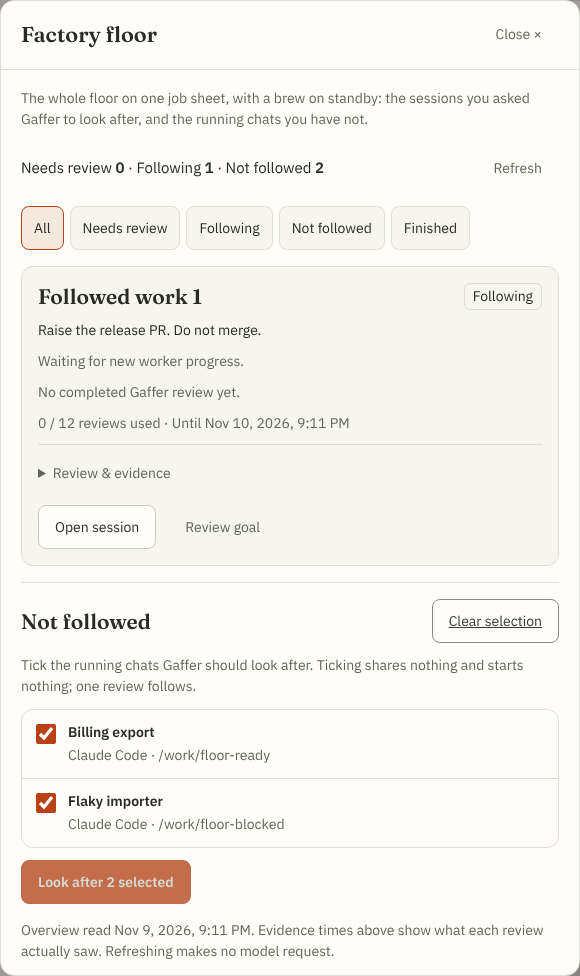
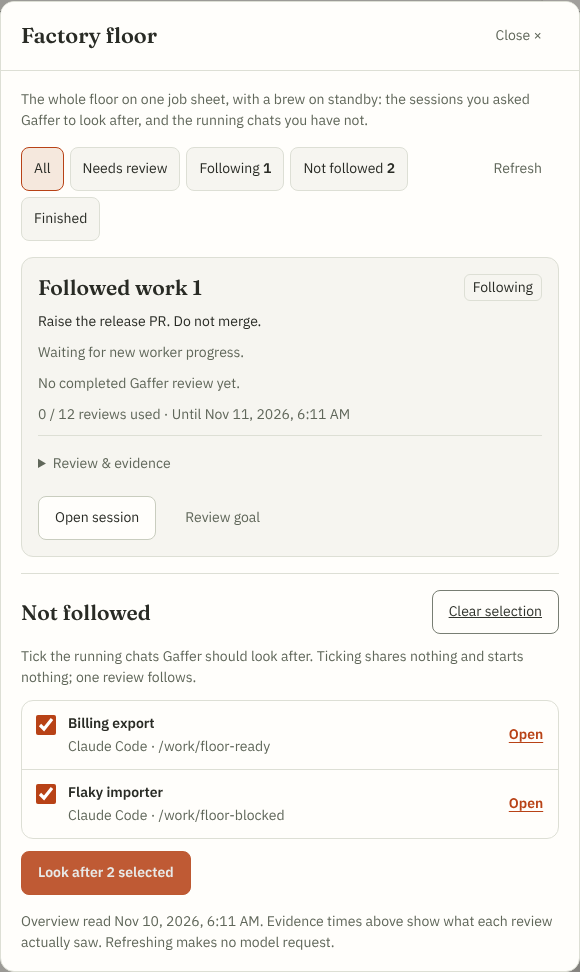
Put the factory floor one click from Gaffer and Home, and fold the session picker into it
General chat's header link and an empty chat's button open the floor, Home
names running chats that are not followed, the filters carry the counts, and
each not-followed row has Open in place of the separate session picker.

Claude-Session: https://claude.ai/code/session_011MNNzptsv6jTWLPjXiBdGs

diff --git a/web/src/lib/GafferFollowedSessions.svelte b/web/src/lib/GafferFollowedSessions.svelte
@@ -4,7 +4,7 @@
   import WorkspaceDialog from './terminal/WorkspaceDialog.svelte'
   import GafferGoal from './GafferGoal.svelte'
   import GafferFloorReview from './GafferFloorReview.svelte'
-  import { terminalSessions, type TerminalSession } from './terminal/api'
+  import { sessionHref, terminalSessions, type TerminalSession } from './terminal/api'
   import { floorCandidates, floorChosen, floorRoom } from './gafferFloor'
   import { toolName } from './agentLaunch'
   import GafferProse from './GafferProse.svelte'
@@ -63,16 +63,22 @@
   function tick_(id:string,on:boolean){const next=new Set(ticked);if(on)next.add(id);else next.delete(id);ticked=next}
   function tickAll(){ticked=chosen.length===candidates.length?new Set():new Set(candidates.map(item=>item.id))}
   async function closeReview(){reviewing=false;await load(true);await tick();(lookAfterButton?.isConnected?lookAfterButton:refreshButton)?.focus({preventScroll:true})}
+  // Opening a running chat from the floor shows it with its own Gaffer conversation. It enables and sends nothing.
+  function openCandidate(event:MouseEvent,item:TerminalSession) {
+    if(event.button!==0||event.ctrlKey||event.metaKey||event.shiftKey||event.altKey)return
+    const request=new CustomEvent('reet:show-session',{detail:item.id,cancelable:true})
+    if(!window.dispatchEvent(request)){event.preventDefault();onselect()}
+    else onclose()
+  }
   async function closeGoal(){managing=null;await load(true);await tick();(returnFocus?.isConnected?returnFocus:refreshButton)?.focus({preventScroll:true})}
 </script>
 
 <WorkspaceDialog title="Factory floor" {onclose}>
   <div class="overview">
     <p class="intro">The whole floor on one job sheet, with a brew on standby: the sessions you asked Gaffer to look after, and the running chats you have not.</p>
-    <div class="toolbar"><p class="counts">Needs review <strong>{needsYou}</strong> <span aria-hidden="true">·</span> Following <strong>{following}</strong> <span aria-hidden="true">·</span> Not followed <strong>{candidates.length}</strong></p><button class="btn quiet" bind:this={refreshButton} disabled={reading} onclick={()=>void load()}>Refresh</button></div>
-    <nav class="filters" aria-label="Filter the floor">
-      {#each [['all','All'],['attention','Needs review'],['active','Following'],['idle','Not followed'],['finished','Finished']] as [value,name]}<button class="filter" type="button" aria-pressed={filter===value} onclick={()=>filter=value}>{name}</button>{/each}
-    </nav>
+    <div class="toolbar"><nav class="filters" aria-label="Filter the floor">
+      {#each [['all','All',-1],['attention','Needs review',needsYou],['active','Following',following],['idle','Not followed',candidates.length],['finished','Finished',-1]] as [value,name,count] (value)}<button class="filter" type="button" aria-pressed={filter===value} onclick={()=>filter=String(value)}>{name}{#if Number(count)>0}{' '}<strong>{count}</strong>{/if}</button>{/each}
+    </nav><button class="btn quiet" bind:this={refreshButton} disabled={reading} onclick={()=>void load()}>Refresh</button></div>
     {#if error}<p role="alert" class="warning">{error}</p>{#if view}<p class="muted">Showing the last successful read. Refresh to check for changes.</p>{/if}{/if}
     {#if loading}<p role="status">Reading the job sheet…</p>
     {:else if !rows.length&&!candidates.length&&!error}<div class="empty"><h3>Nowt on the job sheet yet.</h3><p>Start an agent in Chat and it appears here, ready to be looked after. Opening this view starts no follow-up.</p>{#if sessionsError}<p class="warning">{sessionsError}</p>{/if}</div>
@@ -108,7 +114,7 @@
       {#if candidates.length}
         <p class="muted">Tick the running chats Gaffer should look after. Ticking shares nothing and starts nothing; one review follows.</p>
         <div class="picks" role="group" aria-label="Running chats not followed">
-          {#each candidates as item (item.id)}<label class="pick"><input type="checkbox" checked={ticked.has(item.id)} onchange={event=>tick_(item.id,event.currentTarget.checked)}/><span class="pick-text"><strong>{item.title}</strong><span>{toolName(item.tool??'')||'Agent'} · {item.dir||'Directory not reported'}</span></span></label>{/each}
+          {#each candidates as item (item.id)}<div class="pick-row"><label class="pick"><input type="checkbox" checked={ticked.has(item.id)} onchange={event=>tick_(item.id,event.currentTarget.checked)}/><span class="pick-text"><strong>{item.title}</strong><span>{toolName(item.tool??'')||'Agent'} · {item.dir||'Directory not reported'}</span></span></label><a class="pick-open" href={`${sessionHref(item)}&gaffer=1`} aria-label={`Open ${item.title}`} onclick={event=>openCandidate(event,item)}>Open</a></div>{/each}
         </div>
         {#if chosen.length>room}<p class="warning" role="status">{room?`Gaffer has room for ${room} more active ${room===1?'goal':'goals'}. Untick ${chosen.length-room}.`:'Gaffer is already following ten sessions. Pause or stop one first.'}</p>{/if}
         <div class="actions"><button class="btn primary" type="button" bind:this={lookAfterButton} disabled={!chosen.length||chosen.length>room} onclick={()=>reviewing=true}>{chosen.length?`Look after ${chosen.length} selected`:'Look after selected'}</button></div>
@@ -121,5 +127,5 @@
 {#if managing}<WorkspaceDialog title="Look after this session" onclose={()=>void closeGoal()}><GafferGoal id={managing.goal.conversationId} {userId} {timeZone} {dateFormat} onchanged={async()=>{await load(true);await onchanged()}}/></WorkspaceDialog>{/if}
 
 <style>
-  .overview{display:grid;gap:16px;min-width:0;font-size:14px;line-height:1.5}p{margin:0;overflow-wrap:anywhere}.intro,.muted,.evidence{color:var(--muted)}.toolbar,.card-head,.actions{display:flex;align-items:center;justify-content:space-between;gap:12px}.counts{font-size:15px;font-variant-numeric:tabular-nums}.counts strong{color:var(--ink)}.filters{display:flex;gap:6px;flex-wrap:wrap}.filter{font:inherit;color:var(--ink);border:1px solid var(--line);background:var(--bg);border-radius:8px;padding:7px 12px;min-height:44px;cursor:pointer}.filter[aria-pressed=true]{background:var(--tint);border-color:var(--accent)}.goals{list-style:none;padding:0;margin:0;display:grid;gap:16px}.goals>li{display:grid;gap:10px;min-width:0;padding:16px;border:1px solid var(--line);border-radius:12px;background:var(--bg)}.goals>li.attention{border-color:var(--accent)}h3{font:600 21px var(--serif);margin:0;overflow-wrap:anywhere;min-width:0}h4{font-size:14px;margin:0}.card-head{align-items:flex-start;flex-wrap:wrap}.state{font-size:0.875rem;border:1px solid var(--line);border-radius:6px;padding:2px 8px;white-space:nowrap}.attention .state{color:var(--accent)}.goal-text,.instruction{white-space:pre-wrap;overflow-wrap:anywhere}.review{border-left:2px solid var(--line-strong);padding-left:12px}.eyebrow{font-size:0.875rem;color:var(--muted);margin-bottom:4px}.report{white-space:pre-wrap}.evidence{font-size:0.875rem;font-variant-numeric:tabular-nums}.warning{color:var(--bad)}.delivery{font-weight:600}details{border-top:1px solid var(--line);padding-top:6px}summary{min-height:44px;display:list-item;align-content:center;cursor:pointer;color:var(--muted)}.detail-body{display:grid;gap:10px;padding:8px 0}.actions{justify-content:flex-start;flex-wrap:wrap}.actions a{text-decoration:none;box-sizing:border-box}.btn{min-height:44px}button:focus-visible,a:focus-visible,summary:focus-visible{outline:2px solid var(--accent);outline-offset:3px}.idle{display:grid;gap:12px;min-width:0;border-top:1px solid var(--line);padding-top:16px}.idle-head{display:flex;align-items:center;justify-content:space-between;gap:12px;flex-wrap:wrap}.picks{display:grid;border:1px solid var(--line);border-radius:12px}.pick{display:flex;align-items:flex-start;gap:12px;min-height:44px;padding:12px 14px;cursor:pointer;min-width:0}.pick+.pick{border-top:1px solid var(--line)}.pick input{width:20px;height:20px;margin:2px 0 0;flex:none;accent-color:var(--accent)}.pick-text{display:grid;gap:2px;min-width:0;overflow-wrap:anywhere}.pick-text span{font-size:0.875rem;color:var(--muted)}.pick:has(input:focus-visible){outline:2px solid var(--accent);outline-offset:-2px;border-radius:12px}.empty{padding:16px 0}.empty p{margin-top:10px;color:var(--muted)}@media(max-width:559px){.goals>li{padding:12px}.toolbar{gap:8px}.filter{padding:7px 10px}}
+  .overview{display:grid;gap:16px;min-width:0;font-size:14px;line-height:1.5}p{margin:0;overflow-wrap:anywhere}.intro,.muted,.evidence{color:var(--muted)}.toolbar,.card-head,.actions{display:flex;align-items:center;justify-content:space-between;gap:12px}.toolbar{align-items:flex-start}.filter strong{font-variant-numeric:tabular-nums}.filters{display:flex;gap:6px;flex-wrap:wrap}.filter{font:inherit;color:var(--ink);border:1px solid var(--line);background:var(--bg);border-radius:8px;padding:7px 12px;min-height:44px;cursor:pointer}.filter[aria-pressed=true]{background:var(--tint);border-color:var(--accent)}.goals{list-style:none;padding:0;margin:0;display:grid;gap:16px}.goals>li{display:grid;gap:10px;min-width:0;padding:16px;border:1px solid var(--line);border-radius:12px;background:var(--bg)}.goals>li.attention{border-color:var(--accent)}h3{font:600 21px var(--serif);margin:0;overflow-wrap:anywhere;min-width:0}h4{font-size:14px;margin:0}.card-head{align-items:flex-start;flex-wrap:wrap}.state{font-size:0.875rem;border:1px solid var(--line);border-radius:6px;padding:2px 8px;white-space:nowrap}.attention .state{color:var(--accent)}.goal-text,.instruction{white-space:pre-wrap;overflow-wrap:anywhere}.review{border-left:2px solid var(--line-strong);padding-left:12px}.eyebrow{font-size:0.875rem;color:var(--muted);margin-bottom:4px}.report{white-space:pre-wrap}.evidence{font-size:0.875rem;font-variant-numeric:tabular-nums}.warning{color:var(--bad)}.delivery{font-weight:600}details{border-top:1px solid var(--line);padding-top:6px}summary{min-height:44px;display:list-item;align-content:center;cursor:pointer;color:var(--muted)}.detail-body{display:grid;gap:10px;padding:8px 0}.actions{justify-content:flex-start;flex-wrap:wrap}.actions a{text-decoration:none;box-sizing:border-box}.btn{min-height:44px}button:focus-visible,a:focus-visible,summary:focus-visible{outline:2px solid var(--accent);outline-offset:3px}.idle{display:grid;gap:12px;min-width:0;border-top:1px solid var(--line);padding-top:16px}.idle-head{display:flex;align-items:center;justify-content:space-between;gap:12px;flex-wrap:wrap}.picks{display:grid;border:1px solid var(--line);border-radius:12px}.pick{display:flex;align-items:flex-start;gap:12px;min-height:44px;padding:12px 14px;cursor:pointer;min-width:0}.pick{flex:1 1 auto}.pick-row{display:flex;align-items:center;gap:8px;min-width:0;padding-right:10px}.pick-row+.pick-row{border-top:1px solid var(--line)}.pick-open{flex:none;min-height:44px;min-width:44px;display:inline-flex;align-items:center;justify-content:center;color:var(--accent-text);font-weight:600;text-underline-offset:3px}.pick input{width:20px;height:20px;margin:2px 0 0;flex:none;accent-color:var(--accent)}.pick-text{display:grid;gap:2px;min-width:0;overflow-wrap:anywhere}.pick-text span{font-size:0.875rem;color:var(--muted)}.pick:has(input:focus-visible){outline:2px solid var(--accent);outline-offset:-2px;border-radius:12px}.empty{padding:16px 0}.empty p{margin-top:10px;color:var(--muted)}@media(max-width:559px){.goals>li{padding:12px}.toolbar{gap:8px}.filter{padding:7px 10px}}
 </style>

diff --git a/web/src/lib/GafferChatWidget.svelte b/web/src/lib/GafferChatWidget.svelte
@@ -14,7 +14,6 @@
  import GafferGoal from './GafferGoal.svelte'
  import { goalPrefill } from './sessions/goalPrefill'
  import { copyText } from './clipboard'
-  import GafferSessionPicker from './GafferSessionPicker.svelte'
   import GafferFollowedSessions from './GafferFollowedSessions.svelte'
   import ContextSharing from './ContextSharing.svelte'
   import WorkspaceDialog from './terminal/WorkspaceDialog.svelte'
@@ -29,7 +28,6 @@
   const composeHelpId = `${contextDescriptionId}-keys`
   let historyOpen = $state(false), optionsOpen = $state(false), workerOpen = $state(false), goalOpen=$state(false), relay = $state(false)
   let followedOpen = $state(false)
-  let sessionPickerOpen = $state(false)
   let modelButton = $state<HTMLButtonElement>(), historyButton = $state<HTMLButtonElement>(), contextButton = $state<HTMLButtonElement>(), optionsButton = $state<HTMLButtonElement>(), freshButton = $state<HTMLButtonElement>()
   let modelBefore: {providerId:string;model:string;manual:boolean} | undefined
   let contextOpen = $state(false)
@@ -91,7 +89,7 @@
     measureKeyboard();window.addEventListener('resize',scheduleKeyboard);vv?.addEventListener('resize',scheduleKeyboard);document.addEventListener('focusin',scheduleKeyboard);document.addEventListener('focusout',scheduleKeyboard)
     return () => { cancelAnimationFrame(frame);window.removeEventListener('resize',scheduleKeyboard);vv?.removeEventListener('resize',scheduleKeyboard);document.removeEventListener('focusin',scheduleKeyboard);document.removeEventListener('focusout',scheduleKeyboard);document.documentElement.removeAttribute('data-gaffer-editing');document.documentElement.removeAttribute('data-gaffer-anchor');gafferChatEntry.update(current => current === entry ? null : current); mq.removeEventListener('change', resize); dispose(); drafts = {}; pendingMemory.clear() }
   })
-  $effect(() => { const key = scope, shown = open; untrack(() => { contextOpen=false; choicesOpen=false; optionsOpen=false; workerOpen=false;goalOpen=false;followedOpen=false;sessionPickerOpen=false;relay=false; if (shown) void load(key); else dispose() }) })
+  $effect(() => { const key = scope, shown = open; untrack(() => { contextOpen=false; choicesOpen=false; optionsOpen=false; workerOpen=false;goalOpen=false;followedOpen=false;relay=false; if (shown) void load(key); else dispose() }) })
   $effect(() => {
     if (!open || !panel) return
     const mobile = modal, dialog = panel
@@ -328,7 +326,7 @@
   <dialog class="gaffer-chat" data-size={panelSize} data-side={panelSide} data-full={full||undefined} bind:this={panel} use:phoneShell={modal} use:moveGafferPanel={{reset:`${panelSize}:${panelSide}:${full}:${phone}:${layoutRevision}`,modal}} aria-labelledby="gaffer-chat-title" aria-modal={modal ? 'true' : 'false'} oncancel={event => {event.preventDefault(); void close()}} onkeydown={event => { if (event.key === 'Escape') {event.preventDefault(); event.stopPropagation(); void close()} }}>
     <header class="chat-head" data-shell-head data-gaffer-drag>
       <button class="identity" type="button" data-gaffer-move disabled={modal} aria-keyshortcuts="ArrowLeft ArrowRight ArrowUp ArrowDown" aria-label="Move Gaffer panel with arrow keys or by dragging" title={modal ? 'Gaffer moves with the screen on this size' : 'Drag to move · arrow keys nudge · double-click to snap back'}><GafferCompanionAvatar size={32} thinking={!!running}/></button>
-      <div class="heading"><h2 id="gaffer-chat-title">Gaffer</h2><p class="scope-title" class:follow-scope-label={!scope} title={`${scopeTitle} · ${brainTitle}`}>{#if scope}{scopeTitle}{:else}<span class="sr-only">General Gaffer chat · </span>Follow a session <span aria-hidden="true">⌄</span>{/if}</p>{#if !scope}<button type="button" class="follow-scope" aria-label="Follow a session" title="Choose a session for Gaffer" onclick={()=>sessionPickerOpen=true}></button>{/if}</div>
+      <div class="heading"><h2 id="gaffer-chat-title">Gaffer</h2><p class="scope-title" class:follow-scope-label={!scope} title={`${scopeTitle} · ${brainTitle}`}>{#if scope}{scopeTitle}{:else}<span class="sr-only">General Gaffer chat · </span>Factory floor <span aria-hidden="true">⌄</span>{/if}</p>{#if !scope}<button type="button" class="follow-scope" aria-label="Factory floor" aria-haspopup="dialog" title="See every running chat and choose what Gaffer looks after" onclick={()=>followedOpen=true}></button>{/if}</div>
       <div class="head-actions" role="group" aria-label="Gaffer panel tools">
         <button class="icon" type="button" bind:this={freshButton} aria-label="New conversation" title={freshTitle} aria-haspopup="dialog" disabled={!canStartFresh} onclick={startFresh}><svg aria-hidden="true" width="18" height="18" viewBox="0 0 24 24" fill="none" stroke="currentColor" stroke-width="1.7" stroke-linecap="round" stroke-linejoin="round"><path d="M12 20h9" /><path d="M16.5 3.5a2.12 2.12 0 0 1 3 3L7 19l-4 1 1-4Z" /></svg></button>
         <button class="icon" bind:this={historyButton} aria-label="Conversation history" title="Conversation history" aria-haspopup="dialog" onclick={() => historyOpen = true}><svg aria-hidden="true" width="18" height="18" viewBox="0 0 24 24" fill="none" stroke="currentColor" stroke-width="1.7" stroke-linecap="round" stroke-linejoin="round"><path d="M3 11a9 9 0 1 1 2.6 7M3 4v7h7M12 7v5l3 2" /></svg></button>
@@ -345,7 +343,7 @@
       <!-- svelte-ignore a11y_no_noninteractive_tabindex (The scrolling history must be reachable with a keyboard.) -->
       <div class="transcript" bind:this={transcript} data-shell-body onscroll={() => {if (transcript) stickToBottom = transcript.scrollHeight - transcript.scrollTop - transcript.clientHeight < 90}} tabindex="0" role="region" aria-label="Gaffer conversation messages">
         {#if loading}<p class="empty" role="status">Finding our place…</p>
-        {:else if loadedScope === scope && !error && !current?.turns.length}<div class="welcome"><GafferCompanionAvatar size={112} sitting/><div class="welcome-copy"><h3>Ey up. I’m Gaffer.</h3><p>Talk it through, question the plan, or ask for a second pair of eyes.</p><p class="note">{scope?'Choose “Look after this session” to review access and set a goal in one place.':'A brew and a second pair of eyes. Open a working session when you’d like Gaffer to look after its progress.'}</p></div></div>{/if}
+        {:else if loadedScope === scope && !error && !current?.turns.length}<div class="welcome"><GafferCompanionAvatar size={112} sitting/><div class="welcome-copy"><h3>Ey up. I’m Gaffer.</h3><p>Talk it through, question the plan, or ask for a second pair of eyes.</p><p class="note">{scope?'Choose “Look after this session” to review access and set a goal in one place.':'A brew and a second pair of eyes. The factory floor shows every running chat, and puts the ones you tick in Gaffer’s care.'}</p>{#if !scope}<button type="button" class="btn floor-entry" aria-haspopup="dialog" onclick={()=>followedOpen=true}>Open the factory floor</button>{/if}</div></div>{/if}
         {#if loadedScope === scope}{#each current?.turns ?? [] as turn (turn.id)}
           <article class="turn">
             <div class="user-message"><p class="speaker">{turn.goalId?'Goal review':'You'}</p><p class="message-text">{turn.prompt}</p></div>
@@ -424,7 +422,6 @@
   </div>
 </WorkspaceDialog>{/if}
 
-{#if sessionPickerOpen}<GafferSessionPicker onclose={()=>{sessionPickerOpen=false;void tick().then(()=>composer?.focus({preventScroll:true}))}} onselect={()=>{mode='session';sessionPickerOpen=false}} />{/if}
 {#if goalOpen&&current}<WorkspaceDialog title="Look after this session" onclose={()=>{goalOpen=false;goalDraft='';void tick().then(()=>optionsButton?.focus({preventScroll:true}))}}><GafferGoal id={current.conversation.id} {userId} {timeZone} {dateFormat} draft={goalDraft} onchanged={goalChanged}/></WorkspaceDialog>{/if}
 {#if followedOpen}<GafferFollowedSessions {userId} {timeZone} {dateFormat} onerror={message} onchanged={async()=>{if(open&&scope&&current)await goalChanged();else window.dispatchEvent(new Event(GAFFER_GOALS_CHANGED))}} onselect={()=>{mode='session';followedOpen=false;open=true}} onhistory={()=>{followedOpen=false;historyOpen=true}} onclose={()=>{followedOpen=false;void tick().then(()=>focusEntry(open ? optionsButton : undefined))}}/>{/if}
 {#if workerOpen&&current}<WorkspaceDialog title="Worker messages" onclose={()=>{workerOpen=false;void tick().then(()=>optionsButton?.focus({preventScroll:true}))}}><WorkerMessaging path={`/api/v2/gaffer/conversations/${encodeURIComponent(current.conversation.id)}/worker`} gaffer {timeZone} {dateFormat} onchanged={workerPermissionSaved} onrequest={()=>{relay=true;workerOpen=false;if(canAutoFocus())void tick().then(()=>composer?.focus({preventScroll:true}))}}/></WorkspaceDialog>{/if}
@@ -488,6 +485,7 @@
   .welcome h3 { margin:0 0 10px; }
   .welcome-copy>p { font-size:15px;line-height:1.6; }
   .welcome .note { margin-top:16px;font-size:14px; }
+  .welcome .floor-entry { margin-top:14px;min-height:44px; }
   .turn+.turn { margin-top:28px; }
   .user-message { background:var(--tint);border:1px solid var(--line-soft);border-radius:12px 12px 4px 12px;padding:12px 14px;margin:0 0 18px 24px; }
   .user-message .speaker { position:absolute;width:1px;height:1px;overflow:hidden;clip:rect(0,0,0,0); }

diff --git a/web/src/lib/home/Home.svelte b/web/src/lib/home/Home.svelte
@@ -8,6 +8,7 @@
   import { notStartedText, refusalText, titleFor } from '../agentLaunch'
   import { hasPending } from '../attention'
   import { announceWaiting, attentionCount, fleetCards, foldGafferGoals, handedProjects, reporting, needsYou, inFlight, projectRunning, projectWorktrees, sessionOwners, type FleetCard, type HomeSession, type NeedCard } from '../home'
+  import { floorCandidates } from '../gafferFloor'
   import { clampRailWidth, RAIL_DEFAULT, readWidth } from '../shell/workspaceLayout'
   import type { LaunchDefaults } from '../launchBar'
   import StartAgentDialog from '../StartAgentDialog.svelte'
@@ -101,6 +102,8 @@
   const needs = $derived(folded.cards)
   const followupsNeedReview = $derived(folded.unfolded)
   // Goals that need review but sit on a Needs you card keep Home's entry to Followed sessions when nothing else would show it.
+  // Running chats nobody has asked Gaffer to look after: the factory floor's other half, offered only once the goals are read.
+  const unfollowed = $derived(followups && sessions ? floorCandidates(sessions, followups.goals.map(row => row.goal)).length : 0)
   const attentionGoals = $derived(followups?.goals.filter(row => row.attention).length ?? 0)
   const foldedGoals = $derived(Math.max(0, attentionGoals - followupsNeedReview))
 
@@ -438,8 +441,8 @@
       <div class="home-identity"><h1>Home</h1><p class="welcome-note">Your sessions and plans.</p></div>
       {#if writer}<div class="home-controls"><button type="button" class="btn home-projects" aria-expanded={!railCollapsed} title={railCollapsed ? 'Show the project names and groups' : 'Hide the project list'} onclick={() => setRailCollapsed(!railCollapsed)}>Projects</button><button type="button" class="btn primary home-start" onclick={event => startNewSession(event.currentTarget)}>New session</button></div>{/if}
       <div class="workspace-summary"><span>{cards.filter(reporting).length} {cards.filter(reporting).length === 1 ? 'machine' : 'machines'} connected</span>{#if needs.length}<span>{needs.length} {needs.length === 1 ? 'session needs' : 'sessions need'} you</span>{/if}
-        {#if writer && accounts && (followupsNeedReview || following || foldedGoals || followupsFailed)}<button type="button" class="followups" disabled={!$gafferChatEntry} aria-haspopup="dialog" onclick={event => $gafferChatEntry?.(event.currentTarget, 'followed')}>
-          {#if followupsNeedReview}Gaffer: {followupsNeedReview} {followupsNeedReview === 1 ? 'follow-up needs' : 'follow-ups need'} review{:else if following}Gaffer: following {following} {following === 1 ? 'session' : 'sessions'}{:else if foldedGoals}Gaffer: {foldedGoals} {foldedGoals === 1 ? 'follow-up is' : 'follow-ups are'} in Needs you{:else if followupsFailed}Gaffer follow-ups unavailable{/if}{#if followupsFailed && (followupsNeedReview || following || foldedGoals)}{' · last read'}{/if}
+        {#if writer && accounts && (followupsNeedReview || following || foldedGoals || followupsFailed || unfollowed)}<button type="button" class="followups" disabled={!$gafferChatEntry} aria-haspopup="dialog" onclick={event => $gafferChatEntry?.(event.currentTarget, 'followed')}>
+          {#if followupsNeedReview}Gaffer: {followupsNeedReview} {followupsNeedReview === 1 ? 'follow-up needs' : 'follow-ups need'} review{:else if following}Gaffer: following {following} {following === 1 ? 'session' : 'sessions'}{:else if foldedGoals}Gaffer: {foldedGoals} {foldedGoals === 1 ? 'follow-up is' : 'follow-ups are'} in Needs you{:else if followupsFailed}Gaffer follow-ups unavailable{:else if unfollowed}Gaffer: {unfollowed} running {unfollowed === 1 ? 'chat' : 'chats'} not followed{/if}{#if followupsFailed && (followupsNeedReview || following || foldedGoals)}{' · last read'}{/if}
         </button>{/if}
       </div>
     </header>

diff --git a/docs/handoffs/gaffer-factory-floor.md b/docs/handoffs/gaffer-factory-floor.md
@@ -72,13 +72,37 @@ the real controller harness and was not run locally; CI runs it. No Go code
 changed, so the backend suites were not rerun. Final-head CI and review remain the
 publication gate. No real provider, paid call, device or deployment was used.
 
+## Usability pass (10 November 2026)
+
+The user asked for a simpler, more usable UX. Changes, all browser-only:
+
+- **One click to the floor.** General chat's header link under Gaffer's name is
+  now **Factory floor** (it was **Follow a session**), and an empty general chat
+  offers **Open the factory floor**. Chat options keeps its entry.
+- **One way to choose a session.** The separate "Choose a session for Gaffer"
+  picker is removed (`GafferSessionPicker.svelte` deleted). Each Not-followed row
+  has **Open**, which shows that session with its Gaffer conversation and enables
+  nothing, so the general-to-session path is kept on the floor.
+- **Less chrome.** The counts line is gone; the filter chips carry the counts
+  (shown only when above zero).
+- **Home entry without a goal.** Home's Gaffer line also appears when running
+  structured chats are not followed ("Gaffer: N running chats not followed"),
+  after any review/following/unavailable wording. It reads no extra endpoint:
+  Home already holds the sessions and goals. It is an entry, not an attention
+  count; the bell, title and Needs you counts are unchanged.
+
+`gaffer-floor.e2e.mjs` covers the header and welcome entries, the Open link, the
+counted filters and the Home entry with focus return; `session-end-gaffer`
+follows the floor instead of the picker; `gaffer-followed`, `home-followups`,
+`gaffer-chat`, `gaffer-goal` and `gaffer-widget-ux` pass against the same build.
+
 ## Not done, for the next slice
 
-- Home shows its Gaffer entry only when a goal exists, so with nothing followed
-  the floor is reached through Ask Gaffer → Chat options. A Home entry for
-  "N running chats not followed" would need the attention-count contract checked.
 - No bulk pause, stop or resume, and no per-session goal text in one review.
 - The review uses the default provider's own model; a per-session override is
   still made in that session's chat.
 - General chat still cannot instruct workers, and Gaffer cannot start sessions.
-  Both were offered and deferred; each needs its own contract before code.
+  On 9 November the user asked for Gaffer to **own an outcome and start and manage
+  sessions to meet it**. That crosses the current "no new worker launches"
+  boundary and needs its contract agreed (autonomy, limits, where sessions run)
+  before code; nothing for it is implemented here.

diff --git a/docs/gaffer-ai.md b/docs/gaffer-ai.md
@@ -208,17 +208,23 @@ report progress. Unsupported channels and providers remain visible limitations.
 
 ## Run the factory floor
 
-Choose **Chat options → Factory floor** from general or session chat. It is one
-job sheet for the whole floor: the sessions you asked Gaffer to look after, with
-decisions first, and under **Not followed** every running structured chat you
-have not. Use **Needs review**, **Following**, **Not followed** or **Finished**
-to narrow the view. Paused goals remain under **All**. Opening or refreshing this
-view starts no goal, model request or worker instruction.
+The factory floor is one click away: **Factory floor** under Gaffer's name in
+general chat, **Open the factory floor** in an empty general chat, or Home's
+**Gaffer:** line, which appears whenever a goal needs review, is being followed,
+or running chats are not followed yet. **Chat options → Factory floor** opens it
+from a session chat. It is one job sheet for the whole floor: the sessions you
+asked Gaffer to look after, with decisions first, and under **Not followed**
+every running structured chat you have not. The filters **Needs review**,
+**Following**, **Not followed** and **Finished** carry their counts and narrow
+the view. Paused goals remain under **All**. Opening or refreshing this view
+starts no goal, model request or worker instruction.
 
 ### Put several sessions in Gaffer's care
 
 Tick the running chats Gaffer should look after, or **Select all**, then choose
-**Look after selected**. Ticking shares nothing and starts nothing. One review
+**Look after selected**. Ticking shares nothing and starts nothing. **Open**
+beside a chat shows that session with its own Gaffer conversation instead, which
+also enables nothing. One review
 lists the chosen sessions, Gaffer's default provider and model, what starting
 shares, one goal and one set of limits. Write the goal or pick one with **Use a
 prompt**; expand **Change limits** for the review budget and hours.

diff --git a/CHANGELOG.md b/CHANGELOG.md
@@ -10,6 +10,9 @@ this file existed releases were described on their GitHub release pages.
   running structured chat that is not followed. Tick several, review one goal
   and one set of limits, and each session is started through its own reviewed
   setup, with a per-session result. Each keeps its own access, goal and budget.
+  The floor opens in one click from general Gaffer chat and from Home, which
+  now also says when running chats are not followed. The separate "Choose a
+  session for Gaffer" picker is replaced by **Open** on each row.
   Browser-only: no server, database or connector change.
 - A portable copy can be taken with a password given for that copy alone.
   `POST /api/v2/admin/backups/run` accepts an optional body `{"password": "..."}`

diff --git a/docs/ui-verification.md b/docs/ui-verification.md
@@ -137,6 +137,11 @@ session read and the ten-goal limit. `gaffer-followed`, `home-followups`,
 `gaffer-goal`, `gaffer-widget-ux`, `session-end-gaffer` and `stage-follow` pass
 unchanged apart from the dialog name. Captures use synthetic sessions only.
 
+The 10 November usability pass puts the floor one click from general chat (header
+link and welcome button) and from Home, replaces the separate session picker with
+**Open** on each Not-followed row, and moves the counts into the filter chips.
+
+![Factory floor entry from general chat and Home](images/ui/gaffer-floor-entry-1280-light.png)
 ![Factory floor desktop light](images/ui/gaffer-floor-1440-light.png)
 ![Factory floor review phone light](images/ui/gaffer-floor-review-390-light.png)
 
